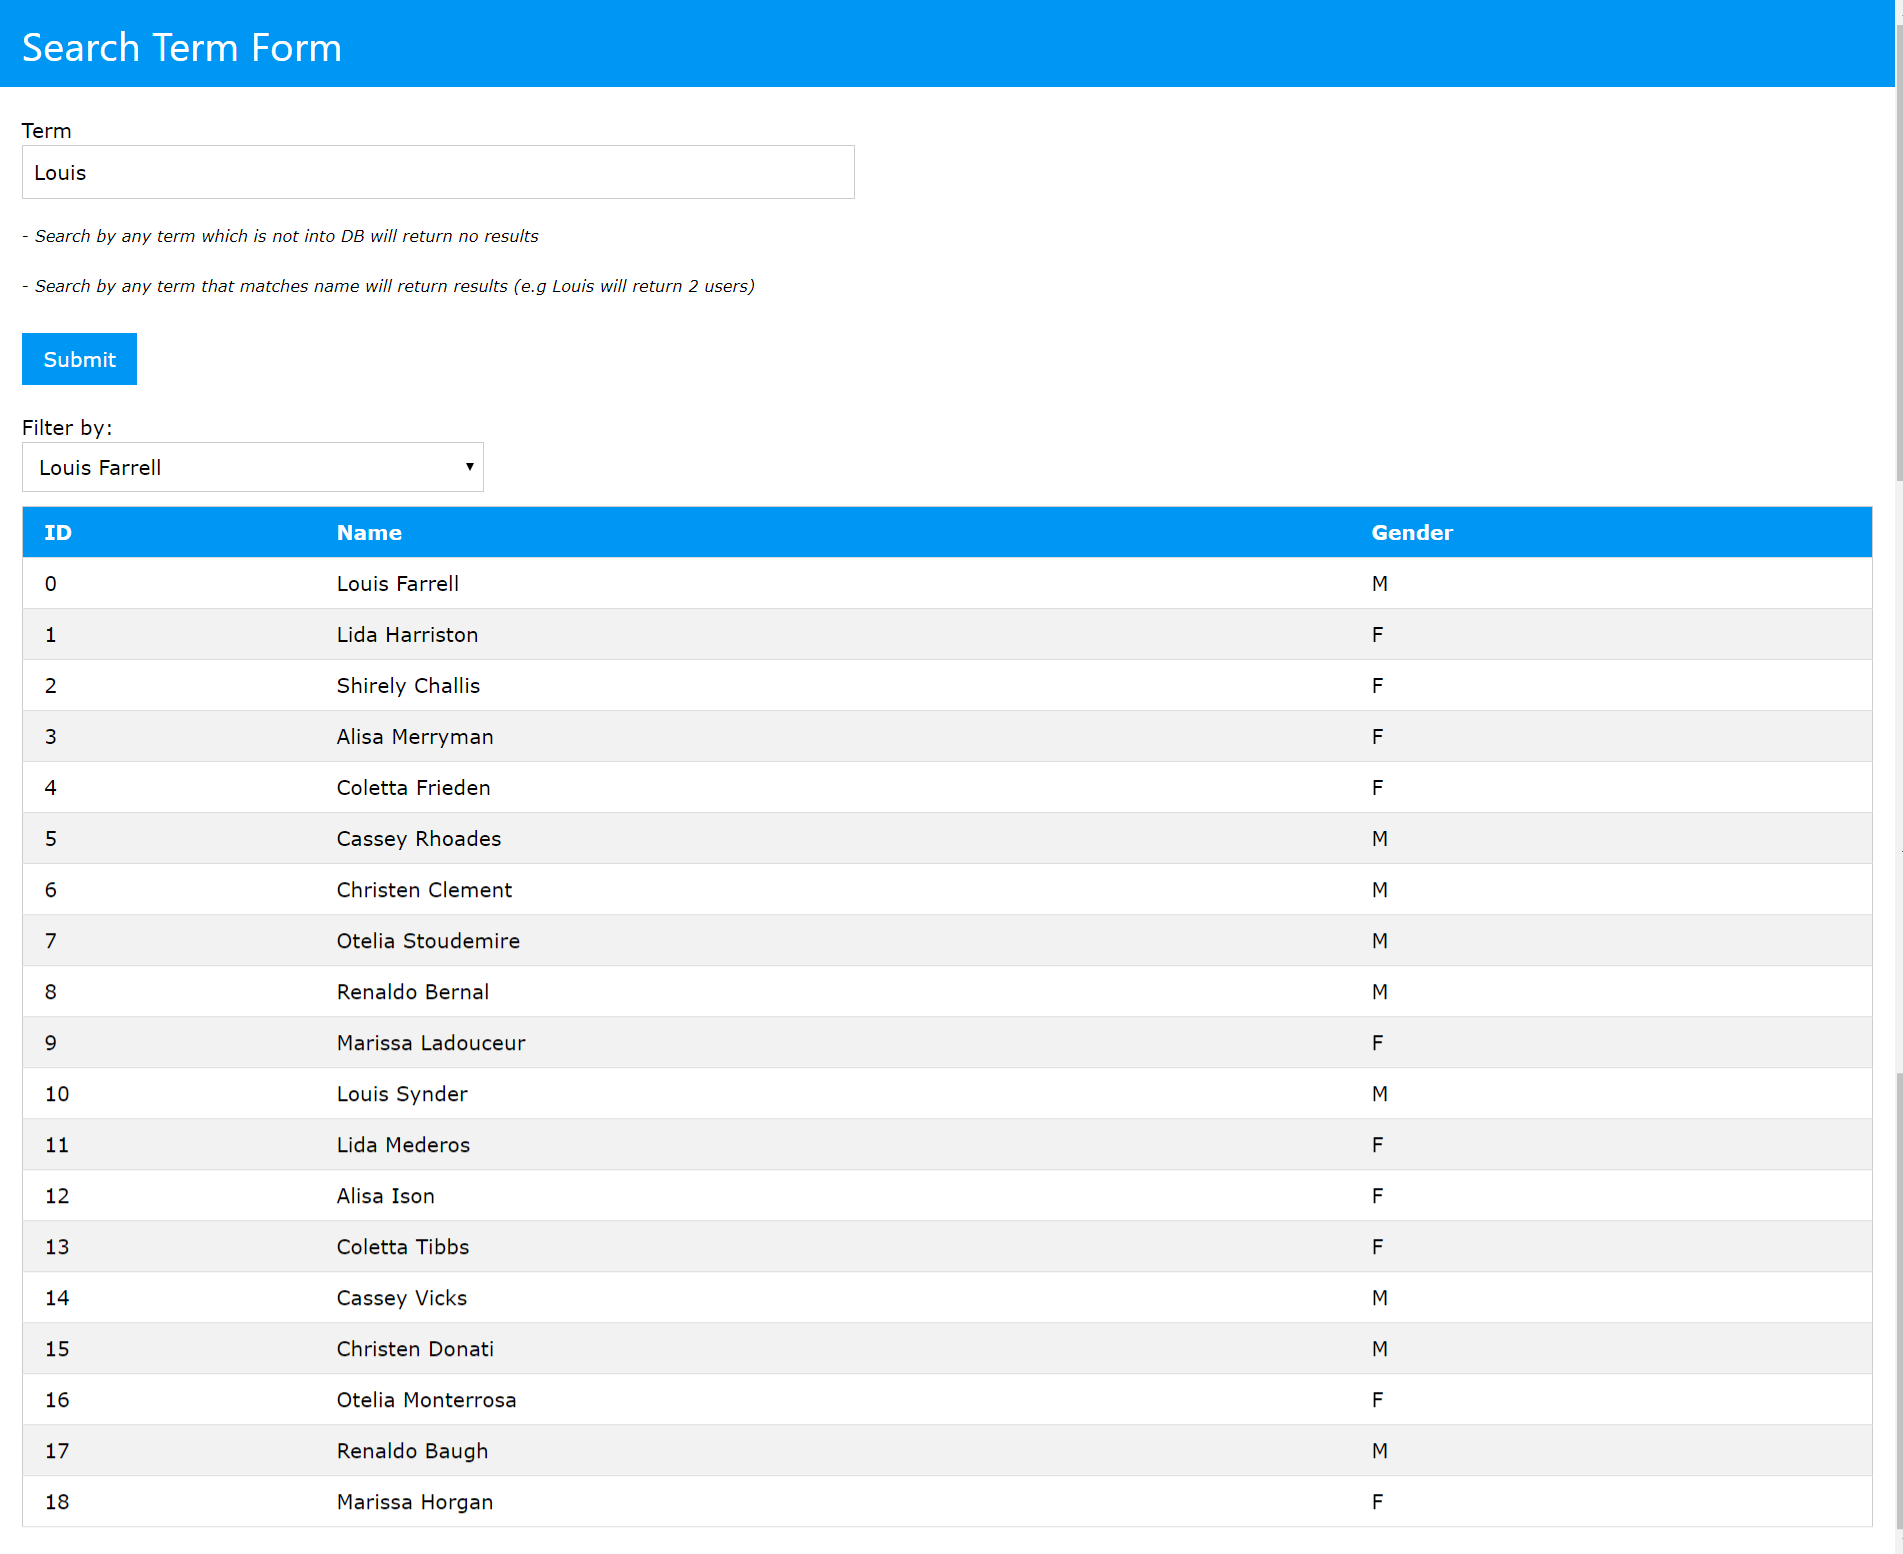
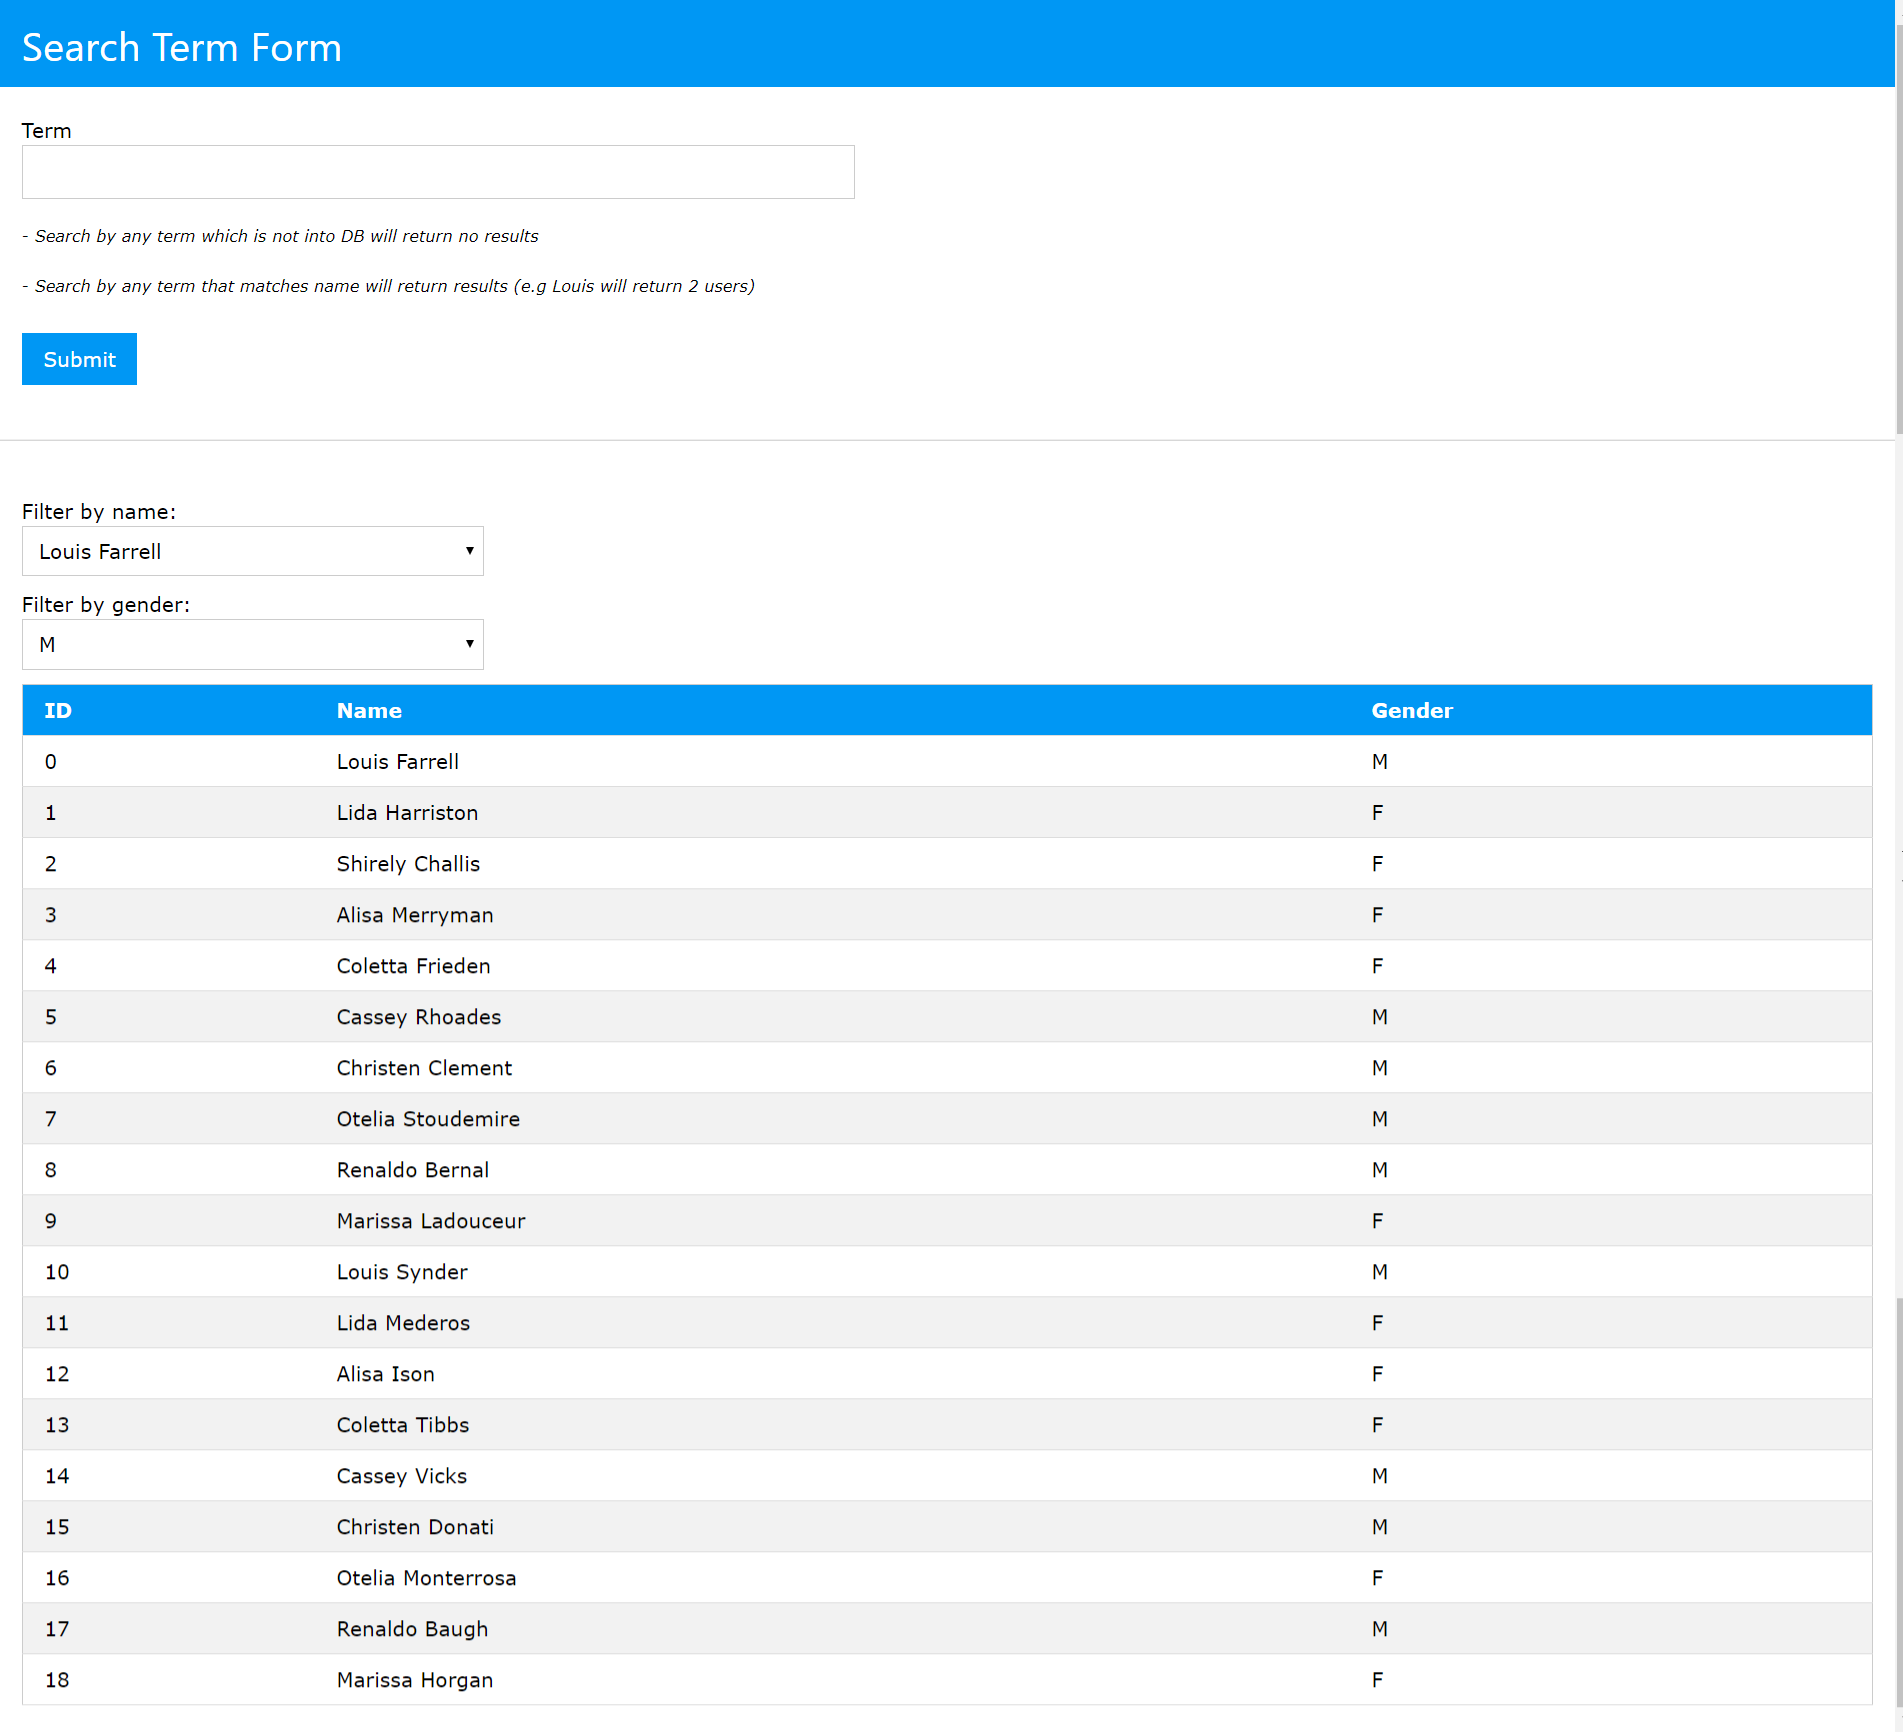
Secure url refactoring

diff --git a/server/routes/api.js b/server/routes/api.js
@@ -4,6 +4,78 @@ const MongoClient = require('mongodb').MongoClient;
 const ObjectID = require('mongodb').ObjectID;
 const url = require('url');
 
+const jwt = require('jwt-simple');
+const moment = require('moment');
+const users = require('../../users');
+const tokens = require('../../tokens');
+
+const jwtAttributes = {
+    SECRET: 'this_will_be_used_for_hashing_signature',
+    ISSUER: 'Rosario Diaferia', 
+    HEADER: 'x-jc-token', 
+    EXPIRY: 120,
+};
+
+/* To secure URL with auth, token and validation */
+// AUTH MIDDLEWARE FOR /token ENDPOINT
+const auth = function (req, res) {
+    const { EXPIRY, ISSUER, SECRET } = jwtAttributes;
+  
+    if (req.body) {
+      const user = users.validateUser(req.body.name, req.body.password);
+      if (user) {
+        const expires = moment().add(EXPIRY, 'seconds')
+          .valueOf();
+        
+        const payload = {
+          exp: expires,
+          iss: ISSUER,
+          name: user.name,
+          email: user.email, 
+        };
+  
+        const token = jwt.encode(payload, SECRET);
+        console.log(token)
+  
+        tokens.add(token, payload);
+  
+        res.json({ token });
+      } else {
+        res.sendStatus(401);
+      }
+    } else {
+      res.sendStatus(401);
+    }
+};
+
+// VALIDATE MIDDLEWARE FOR /secretInfo
+const validate = function (req, res, next) {
+    const { HEADER, SECRET } = jwtAttributes;
+  
+    const token = req.headers[HEADER];
+  
+    if (!token) {
+      res.statusMessage = 'Unauthorized: Token not found';
+      res.sendStatus('401').end();
+    } else {
+      try {
+        const decodedToken = jwt.decode(token, SECRET);
+      } catch(e) {
+        res.statusMessage = 'Unauthorized: Invalid token';
+        res.sendStatus('401');
+        return;
+      }
+      
+      if (!tokens.isValid(token)) {
+        res.statusMessage = 'Unauthorized : Token is either invalid or expired';
+        res.sendStatus('401');
+        return;
+      }
+      next(); 
+    }
+};
+// -- Secure URL End
+
 const connection = (closure) => {
     return MongoClient.connect('mongodb://localhost:27017/usersDB' , { useNewUrlParser: true }, (err, client) => {
         if (err) return console.log(err)
@@ -43,6 +115,7 @@ router.get('/users', (req, res) => {
     });
 });
 
+// Get users by term
 router.get('/:term', (req, res) => {
     console.log(req.params.term);
     const term = req.params.term;

diff --git a/server.js b/server.js
@@ -4,76 +4,6 @@ const path = require('path');
 const http = require('http');
 const app = express();
 
-const jwt = require('jwt-simple');
-const moment = require('moment');
-const users = require('./users');
-const tokens = require('./tokens');
-
-const jwtAttributes = {
-    SECRET: 'this_will_be_used_for_hashing_signature',
-    ISSUER: 'Rosario Diaferia', 
-    HEADER: 'x-jc-token', 
-    EXPIRY: 120,
-};
-
-// AUTH MIDDLEWARE FOR /token ENDPOINT
-const auth = function (req, res) {
-    const { EXPIRY, ISSUER, SECRET } = jwtAttributes;
-  
-    if (req.body) {
-      const user = users.validateUser(req.body.name, req.body.password);
-      if (user) {
-        const expires = moment().add(EXPIRY, 'seconds')
-          .valueOf();
-        
-        const payload = {
-          exp: expires,
-          iss: ISSUER,
-          name: user.name,
-          email: user.email, 
-        };
-  
-        const token = jwt.encode(payload, SECRET);
-  
-        tokens.add(token, payload);
-  
-        res.json({ token });
-      } else {
-        res.sendStatus(401);
-      }
-    } else {
-      res.sendStatus(401);
-    }
-};
-
-// VALIDATE MIDDLEWARE FOR /secretInfo
-const validate = function (req, res, next) {
-    const { HEADER, SECRET } = jwtAttributes;
-  
-    const token = req.headers[HEADER];
-  
-    if (!token) {
-      res.statusMessage = 'Unauthorized: Token not found';
-      res.sendStatus('401').end();
-    } else {
-      try {
-        const decodedToken = jwt.decode(token, SECRET);
-      } catch(e) {
-        res.statusMessage = 'Unauthorized: Invalid token';
-        res.sendStatus('401');
-        return;
-      }
-      
-      if (!tokens.isValid(token)) {
-        res.statusMessage = 'Unauthorized : Token is either invalid or expired';
-        res.sendStatus('401');
-        return;
-      }
-      next(); 
-    }
-};
-  
-
 // API file for interacting with MongoDB
 const api = require('./server/routes/api');
 
@@ -98,18 +28,6 @@ app.use('/api', api);
 app.get('*', (req, res) => {
     res.sendFile(path.join(__dirname, 'dist/mean/index.html'));
 });
-
-
-/* To secure URL with auth, token and validation */
-// app.post('/token', auth, (req, res) => {
-//     res.send('token');
-// });
-
-// app.get('/secretInfo', validate, (req, res) => {
-//     res.send('Secret info');
-// });
-// -- End
-
 
 //Set Port
 const port = process.env.PORT || '3000';

diff --git a/src/app/app.component.ts b/src/app/app.component.ts
@@ -66,7 +66,7 @@ export class AppComponent {
 
   filterUserByGender(gender: string) {
     this.filterList =  this.users.filter(item => {
-      return item.gender == gender;
+      return item.gender === gender;
     });
     this.showAll = true;
   }

diff --git a/src/styles.css b/src/styles.css
@@ -23,4 +23,9 @@ button#submit {
 button#showAll {
     margin-bottom: 10px;
 }
+hr {
+    margin: 40px 0;
+    height: 1px;
+    background-color: #d7d7d7;
+}
 

diff --git a/src/app/app.component.html b/src/app/app.component.html
@@ -20,6 +20,7 @@
     <div class="w3-cell"></div>
   </div>
 </div>
+<hr />
 
 <div class="w3-container">
   <div class="w3-cell-row">
